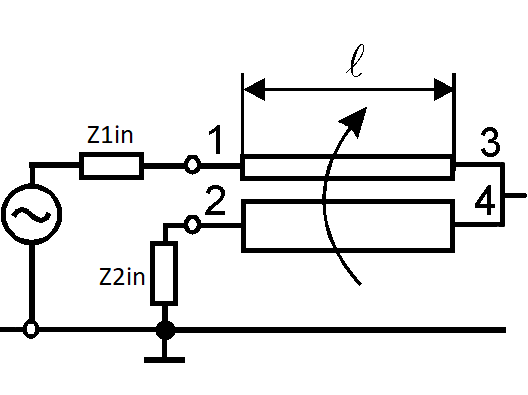
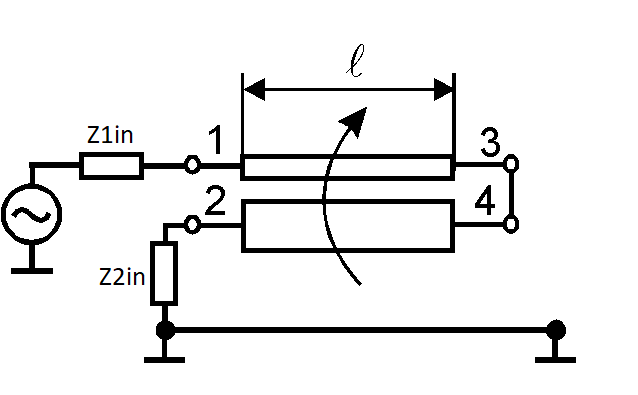
+с секция

diff --git a/ParametersApp/FormForGraph.Designer.cs b/ParametersApp/FormForGraph.Designer.cs
@@ -677,9 +677,9 @@
             this.CLikeRadioButton.Location = new System.Drawing.Point(1, 64);
             this.CLikeRadioButton.Name = "CLikeRadioButton";
             this.CLikeRadioButton.Padding = new System.Windows.Forms.Padding(9, 0, 0, 0);
-            this.CLikeRadioButton.Size = new System.Drawing.Size(139, 20);
+            this.CLikeRadioButton.Size = new System.Drawing.Size(91, 20);
             this.CLikeRadioButton.TabIndex = 2;
-            this.CLikeRadioButton.Text = "C-like transformer";
+            this.CLikeRadioButton.Text = "C-section";
             this.CLikeRadioButton.UseVisualStyleBackColor = true;
             this.CLikeRadioButton.CheckedChanged += new System.EventHandler(this.CLikeradioButton_CheckedChanged);
             // 

diff --git a/CalculatingParametersLib/CouplLinesInFreqRange.cs b/CalculatingParametersLib/CouplLinesInFreqRange.cs
@@ -226,7 +226,6 @@ namespace CalculatingParametersLib
                 {
                     yo[i] = yo[i] + complexAddMatrix;
                 }
-                
             }
             for (int i = 0; i < Nf; i++)
             {
